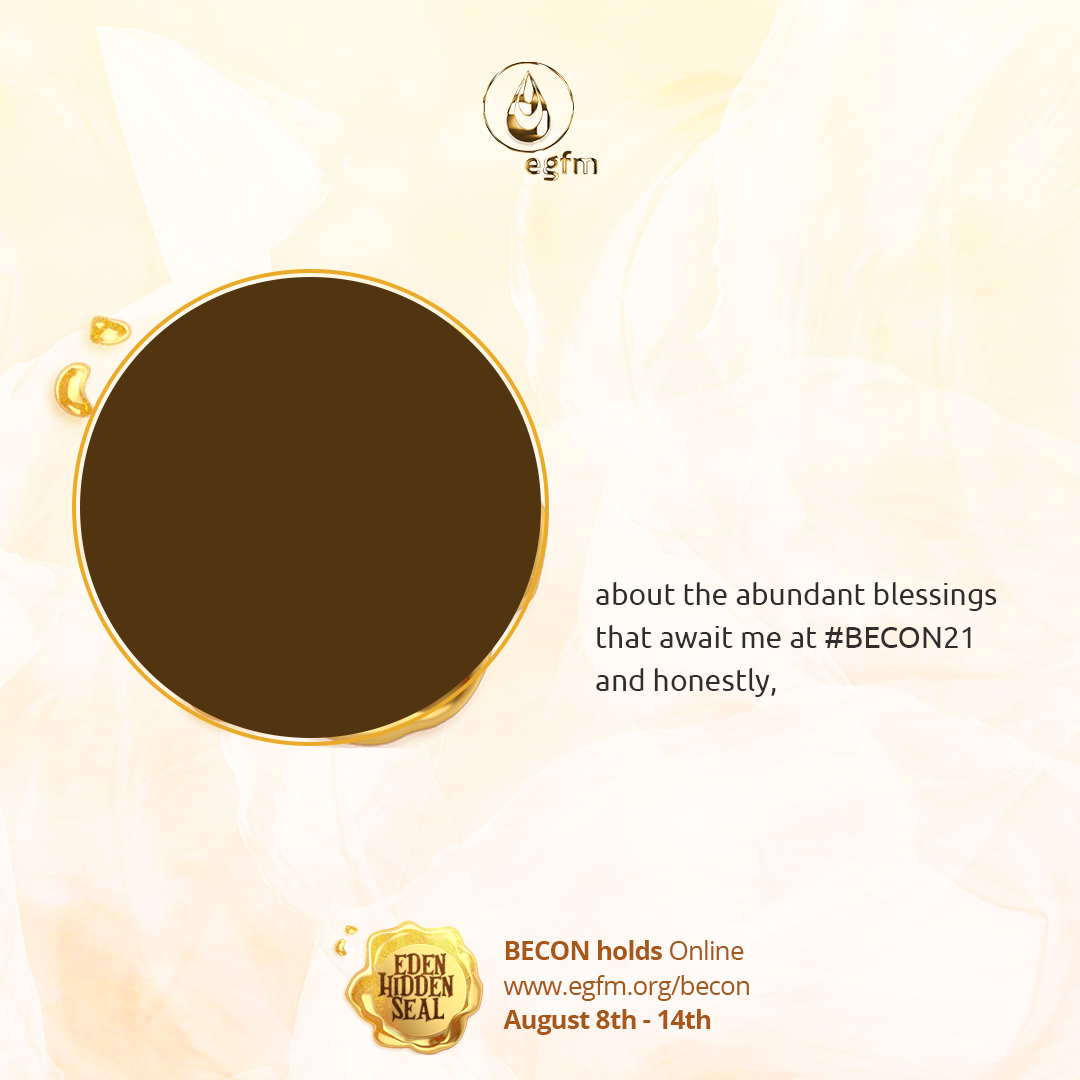
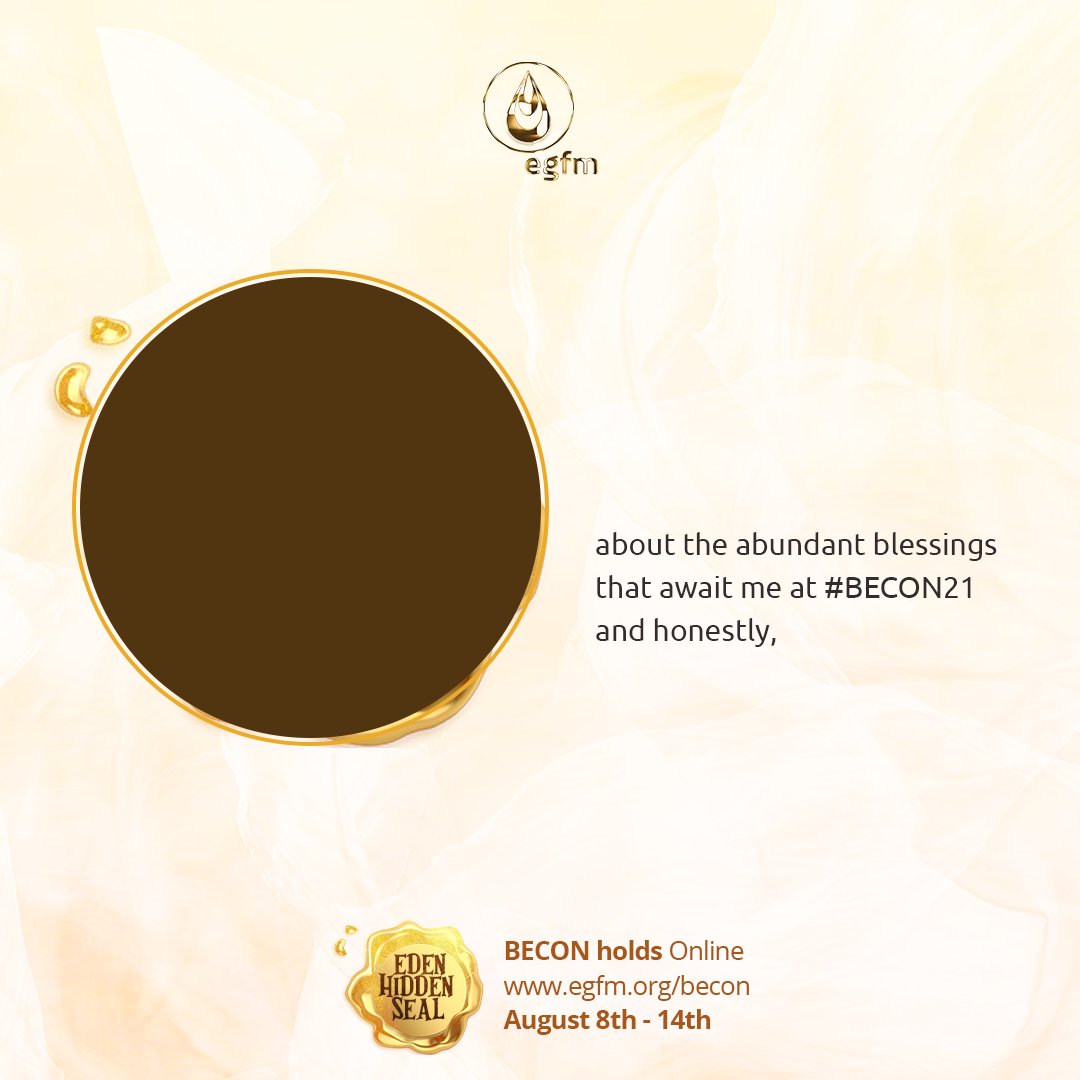
change frames

Changed region(s): [[0.55, 0.4889, 0.9167, 0.6417], [0.3667, 0.8861, 0.4278, 0.9167]]

diff --git a/dpEngine/js/main.js b/dpEngine/js/main.js
@@ -35,13 +35,13 @@ $(function () {
   }
 
   function processImage () {
-    register.html(`<h3>Getting Your Video...</h3><h3>This might take some seconds</h3>`);
+    register.html(`<h3>Getting Your Video...</h3><h3>This might take some seconds</h3><h3>0% done</h3>`);
     const text1 = $(`#input_text_1`).val()
     const text2 = $(`#input_text_2`).val()
     // name, y, x
-    const textData1 = [`${text1}`, 473, 595];
+    const textData1 = [`${text1}`, 485, 596];
     // name, y, x
-    const textData2 = [`${text2}`, 412, 587];
+    const textData2 = [`${text2}`, 433, 587];
 
     // button.attr("disabled", "disabled").html("...processing");
 
@@ -69,8 +69,10 @@ $(function () {
             setImageArray(images);
   
             if(index == 0){
+              register.html(`<h3>Getting Your Video...</h3><h3>This might take some seconds</h3><h3>30% done</h3>`);
               createDP(1,images[1], picData, textData2, genericCb);
             }else{
+              register.html(`<h3>Getting Your Video...</h3><h3>This might take some seconds</h3><h3>60% done</h3>`);
               createDP(2,images[2], picData, "", genericCb);
             }
           },
@@ -91,6 +93,7 @@ $(function () {
           images[index] = result.public_id;
           setImageArray(images);
 
+          register.html(`<h3>Getting Your Video...</h3><h3>This might take some seconds</h3><h3>90% done</h3>`);
           navigateTo("yourdp", createHTMLForImage(url));
         },
         error: function (xhr, status, error) {

diff --git a/sass/main.css b/sass/main.css
@@ -1832,7 +1832,7 @@ $breakpoint arguments choices:
   width: 18.75rem;
   border: 1px solid #333333;
   margin: 2.25rem auto 1rem;
-  border-radius: 3px;
+  border-radius: 50%;
   background-size: cover;
 
   /* border: 1px #ccc;
@@ -1843,6 +1843,7 @@ $breakpoint arguments choices:
 
 .cropit-preview-image-container {
   cursor: move;
+  border-radius: 50%;
 }
 
 .image-size-label {
